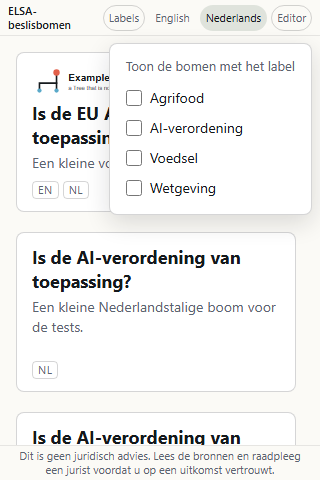
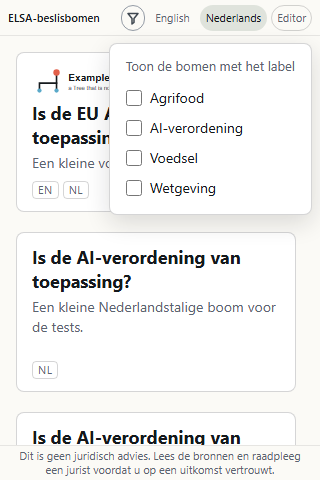
The tag filter's list is out of layout while shut, and below 480 its pill is a funnel named by its word (#273)
- Chromium lays a closed <details>' content out in a contained slot,
  which became the list's containing block and put it left of a 360
  window, where no-scroll's bar measure found it (the overview's bar at
  360 x 640, en and nl): display none while shut.
- At 320 x 480 the site title took a second line beside the word
  (no-scroll's bar row). The overview keeps its current language's pill
  at every width (24.3), so below 480 the pill draws a funnel for its
  word, display none there, and is named by aria-label: the word, and
  the count when tags are ticked.

Changed region(s): [[0.0, 0.0, 0.4375, 0.0625]]

diff --git a/src/app/[lang]/globals.css b/src/app/[lang]/globals.css
@@ -1936,6 +1936,18 @@ a.language:hover,
   display: none;
 }
 
+/* The funnel is the pill's below 480 pixels wide only, where it stands for the word. */
+.tag-filter-icon {
+  display: none;
+  width: 12px;
+  height: 18px;
+  vertical-align: top;
+  fill: none;
+  stroke: currentColor;
+  stroke-width: 1.5;
+  stroke-linejoin: round;
+}
+
 /* How many tags are ticked, after the word, in the colours of the + tile's `accent-secondary`. */
 .tag-filter-count {
   display: inline-block;
@@ -1948,6 +1960,15 @@ a.language:hover,
   text-align: center;
   color: var(--elsa-on-accent-secondary);
   background: var(--elsa-accent-secondary);
+}
+
+/*
+ * Shut, out of layout: Chromium lays a closed <details>' content out in a contained slot, which
+ * would be the list's containing block and put it left of a narrow window, where the bar's own
+ * measures (10.6) find it.
+ */
+.tag-filter:not([open]) > .tag-filter-panel {
+  display: none;
 }
 
 .tag-filter-panel {
@@ -3151,6 +3172,19 @@ fieldset:disabled .admin-submit {
 
   .tag-filter-panel {
     right: 8px;
+  }
+
+  /*
+   * **[#273]** The overview keeps its current language's pill at every width (24.3), so below 480
+   * the tag pill draws a funnel for its word, which stays its name for a screen reader (its
+   * `aria-label`): at 320 the site title took a second line beside the word.
+   */
+  .tag-filter-icon {
+    display: inline-block;
+  }
+
+  .tag-filter-word {
+    display: none;
   }
 
   .share-said {

diff --git a/tests/browser/tags.spec.ts b/tests/browser/tags.spec.ts
@@ -170,8 +170,19 @@ test.describe('the overview filter (26.5)', () => {
         expect(overflow.right, `${width} ${query}`).toBeGreaterThanOrEqual(0)
       }
     }
+    // Below 480 a funnel stands for the word, which stays the pill's name; the current language's pill stays (24.3).
+    await page.setViewportSize({ width: 320, height: 480 })
+    await page.goto(`${origin}/?lang=nl&tag=Voedsel`)
+    await expect(pill(page).locator('.tag-filter-icon')).toBeVisible()
+    await expect(pill(page).locator('.tag-filter-word')).toBeHidden()
+    await expect(pill(page)).toHaveAccessibleName('Labels 1')
+    await expect(page.locator('header.page-chrome .language--current')).toBeVisible()
+    await page.setViewportSize({ width: 480, height: 640 })
+    await expect(pill(page).locator('.tag-filter-icon')).toBeHidden()
+    await expect(pill(page).locator('.tag-filter-word')).toBeVisible()
     await page.setViewportSize({ width: 320, height: 480 })
     await page.goto(`${origin}/?lang=nl`)
+    await expect(pill(page)).toHaveAccessibleName('Labels')
     await pill(page).click()
     await page.screenshot({ path: path.join(SHOTS, 'overview-tags-open-nl-320x480.png') })
   })

diff --git a/src/components/TagFilter.tsx b/src/components/TagFilter.tsx
@@ -78,8 +78,12 @@ export function TagFilter({
 
   return (
     <details className="tag-filter" ref={sheet}>
-      <summary className="tag-filter-button">
-        {words.tags}
+      {/* Named by its word and the count, which below 480 pixels wide a funnel and the count stand for. */}
+      <summary className="tag-filter-button" aria-label={chosen.length > 0 ? `${words.tags} ${chosen.length}` : words.tags}>
+        <svg className="tag-filter-icon" viewBox="0 0 12 18" aria-hidden="true">
+          <path d="M1 4.5h10L7 9.5v4l-2 1.5v-5.5z" />
+        </svg>
+        <span className="tag-filter-word">{words.tags}</span>
         {chosen.length > 0 && <span className="tag-filter-count">{chosen.length}</span>}
       </summary>
       <form className="tag-filter-panel" method="get" action="/">
